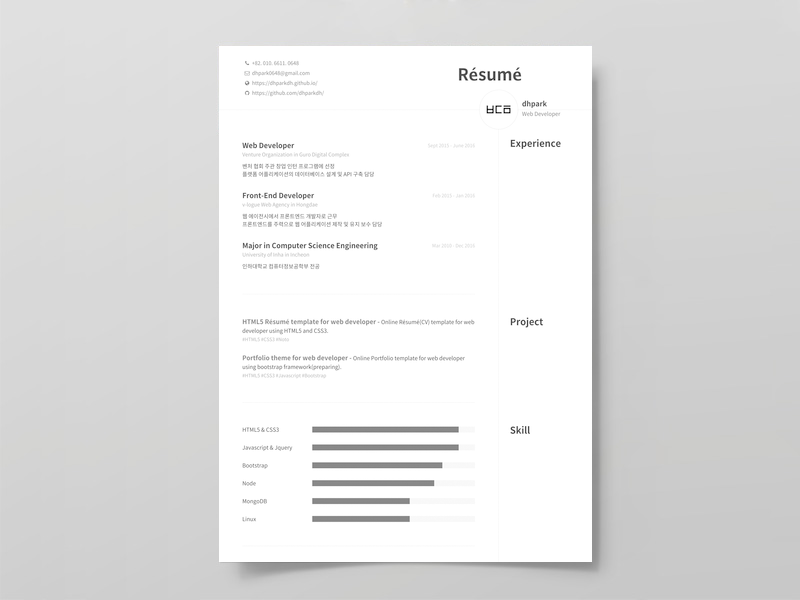
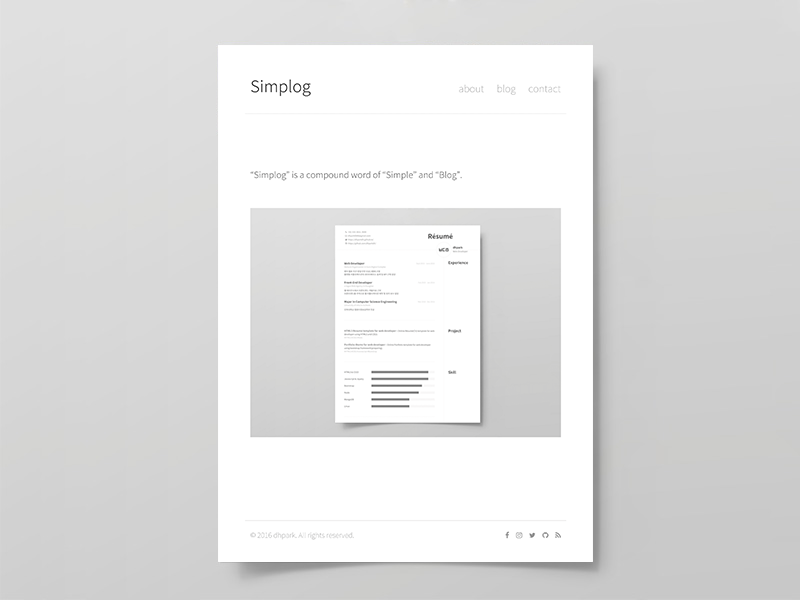
dev u

diff --git a/publishing/about.html b/publishing/about.html
@@ -1,0 +1,78 @@
+<!DOCTYPE html>
+<html lang="ko">
+  <head>
+    <meta charset="utf-8">
+    <meta http-equiv="X-UA-Compatible" content="IE=edge">
+    <meta name="viewport" content="width=device-width, initial-scale=1">
+
+    <title>Simplog</title>
+
+    <!-- favicon.ico -->
+    <link rel="shortcut icon" href="../assets/img/favicon/favicon.ico">
+
+    <!-- Noto Sans KR-Hestia -->
+    <link rel="stylesheet" href="../assets/noto-fonts/stylesheets/NotoSansKR-Hestia.css">
+
+    <!-- font-awesome -->
+    <link href="../assets/bower_components/components-font-awesome/css/font-awesome.min.css" rel="stylesheet">
+
+    <!-- highlight -->
+    <link href="../assets/css/highlight.css" rel="stylesheet">
+
+    <!-- custom css -->
+    <link href="../assets/css/initialize.css" rel="stylesheet">
+    <link href="../assets/css/style.css" rel="stylesheet">
+
+    <!-- IE8 에서 HTML5 요소와 미디어 쿼리를 위한 HTML5 shim 와 Respond.js -->
+    <!-- WARNING: Respond.js 는 당신이 file:// 을 통해 페이지를 볼 때는 동작하지 않습니다. -->
+    <!--[if lt IE 9]>
+      <script src="https://oss.maxcdn.com/html5shiv/3.7.2/html5shiv.min.js"></script>
+      <script src="https://oss.maxcdn.com/respond/1.4.2/respond.min.js"></script>
+    <![endif]-->
+  </head>
+  <body>
+
+    <!-- wrapper -->
+    <div class="wrapper">
+
+
+      <!-- header -->
+      <header id="gb-header">
+        <h1><a href="#">Simplog</a></h1>
+        <nav class="gb-nav">
+          <ul>
+            <li><a href="#">about</a></li>
+            <li><a href="#">blog</a></li>
+            <li><a href="#">contact</a></li>
+          </ul>
+        </nav>
+      </header><!-- header -->
+
+
+      <!-- section : main -->
+      <section id="main">
+
+        <p>“Simplog” is a compound word of “Simple” and “Blog”.</p>
+
+        <img src="../assets/img/screenshot.png" alt="">
+
+      </section><!-- section : main -->
+
+
+      <!-- footer -->
+      <footer>
+        <ul class="social-list">
+          <li><a href="#" target="_blank"><i class="fa fa-facebook" aria-hidden="true"></i></a></li>
+          <li><a href="#" target="_blank"><i class="fa fa-instagram" aria-hidden="true"></i></a></li>
+          <li><a href="#" target="_blank"><i class="fa fa-twitter" aria-hidden="true"></i></a></li>
+          <li><a href="#" target="_blank"><i class="fa fa-github" aria-hidden="true"></i></a></li>
+          <li><a href="#"><i class="fa fa-rss" aria-hidden="true"></i></a></li>
+        </ul>
+        © 2016 dhpark. All rights reserved.
+      </footer><!-- footer -->
+
+
+    </div><!-- wrapper -->
+
+  </body>
+</html>
